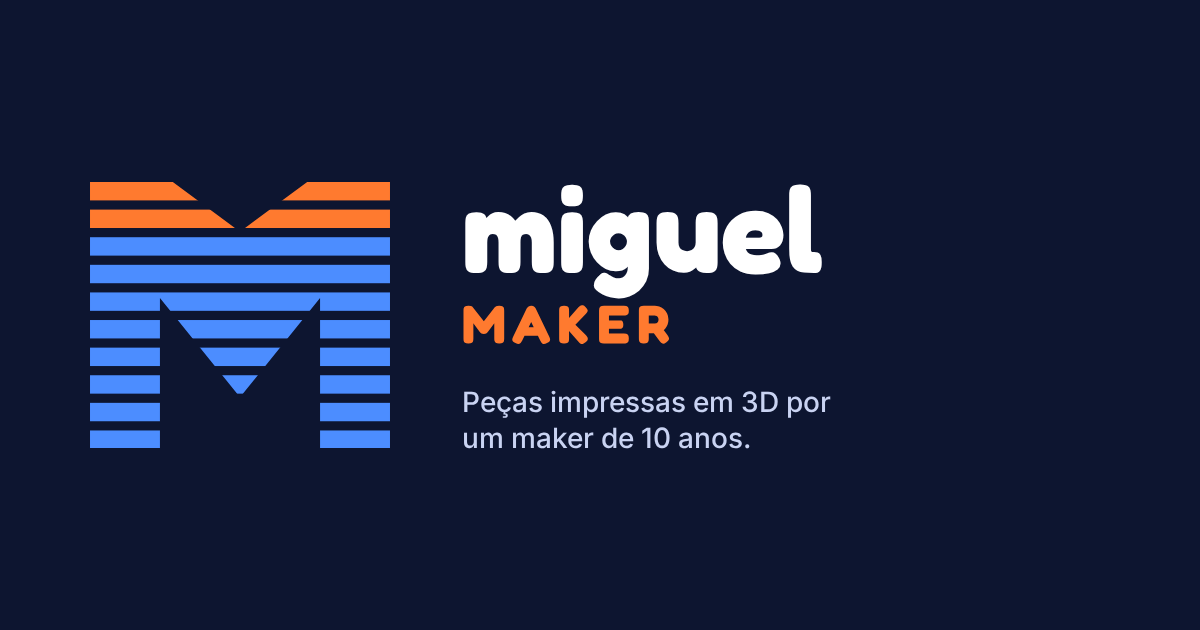
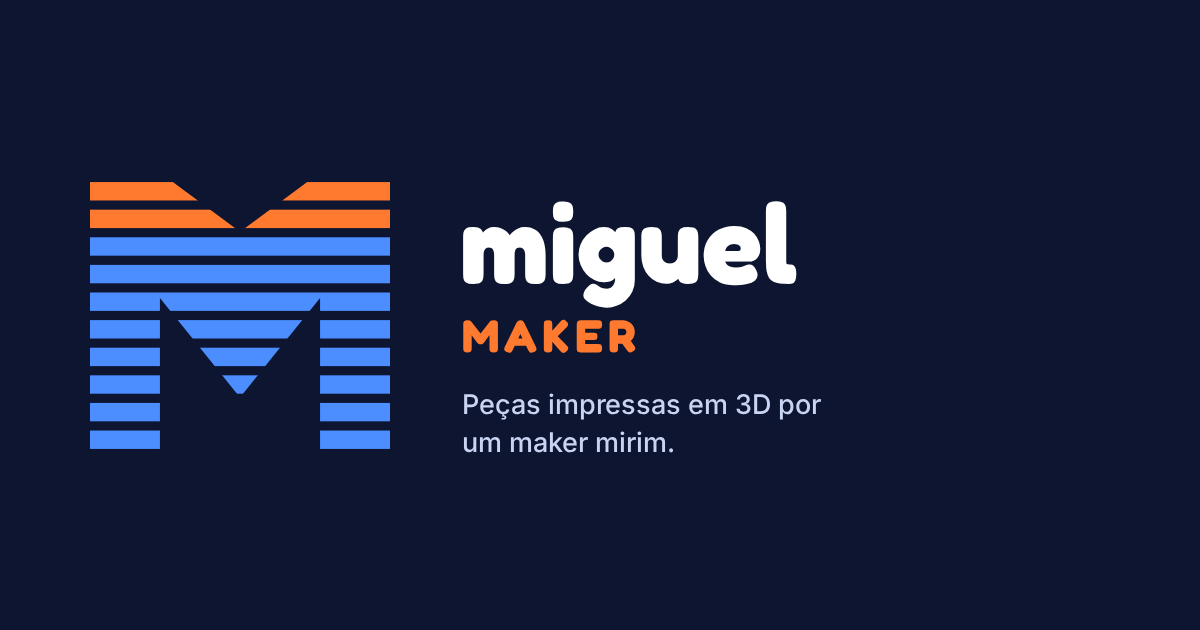
fix(miguelmaker): tira a idade do Miguel do site, do cartão e da prévia (maker mirim)

Changed region(s): [[0.37, 0.2714, 0.7092, 0.573], [0.37, 0.6032, 0.7092, 0.7238]]

diff --git a/miguelmaker/index.html b/miguelmaker/index.html
@@ -3,8 +3,8 @@
 <head>
 <meta charset="utf-8">
 <meta name="viewport" content="width=device-width, initial-scale=1">
-<title>Miguel Maker | Peças impressas em 3D por um maker de 10 anos</title>
-<meta name="description" content="Chaveiros personalizados, quadros de percurso, action figures e peças sob encomenda, impressos em 3D pelo Miguel, um maker de 10 anos. Peça pelo WhatsApp.">
+<title>Miguel Maker | Peças impressas em 3D por um maker mirim</title>
+<meta name="description" content="Chaveiros personalizados, quadros de percurso, action figures e peças sob encomenda, impressos em 3D pelo Miguel, um maker mirim. Peça pelo WhatsApp.">
 <link rel="canonical" href="https://luizhenrique.dev.br/miguelmaker/">
 <meta name="theme-color" content="#0D1530">
 
@@ -13,7 +13,7 @@
 <meta property="og:site_name" content="Miguel Maker">
 <meta property="og:url" content="https://luizhenrique.dev.br/miguelmaker/">
 <meta property="og:title" content="Miguel Maker | Criado camada por camada">
-<meta property="og:description" content="Peças impressas em 3D pelo Miguel, um maker de 10 anos. Diagnóstico não é destino.">
+<meta property="og:description" content="Peças impressas em 3D pelo Miguel, um maker mirim. Diagnóstico não é destino.">
 <meta property="og:image" content="https://luizhenrique.dev.br/miguelmaker/img/og.png">
 <meta property="og:image:width" content="1200">
 <meta property="og:image:height" content="630">
@@ -33,7 +33,7 @@
   "@type": "Store",
   "name": "Miguel Maker",
   "slogan": "Criado camada por camada",
-  "description": "Peças impressas em 3D pelo Miguel, um maker de 10 anos: chaveiros, quadros de percurso, action figures e personalizados.",
+  "description": "Peças impressas em 3D pelo Miguel, um maker mirim: chaveiros, quadros de percurso, action figures e personalizados.",
   "url": "https://luizhenrique.dev.br/miguelmaker/",
   "logo": "https://luizhenrique.dev.br/miguelmaker/img/icone-180.png",
   "image": "https://luizhenrique.dev.br/miguelmaker/img/og.png",
@@ -92,7 +92,7 @@
 <section class="abertura">
   <div class="caixa">
     <div>
-      <h1>Peças impressas em 3D pelo Miguel, um maker de 10 anos.</h1>
+      <h1>Peças impressas em 3D pelo Miguel, um maker mirim.</h1>
       <p class="sub">Chaveiros com nome, quadros do seu percurso, action figures e o que mais você imaginar. Cada peça sai numerada e assinada por ele.</p>
       <div class="acoes">
         <a class="bt laranja" href="https://wa.me/5561992868444?text=Oi!%20Vim%20pelo%20site%20do%20Miguel%20Maker%20e%20quero%20fazer%20um%20pedido." target="_blank" rel="noopener"><svg aria-hidden="true"><use href="#i-whats"/></svg>Pedir pelo WhatsApp</a>
@@ -185,7 +185,7 @@
   <div class="caixa">
     <div class="historia">
       <h2>Quem é o Miguel</h2>
-      <p>O Miguel tem 10 anos, gosta de azul, de videogame e de futebol. Um dia o pai trouxe uma impressora 3D para casa, e ele descobriu que dava para transformar uma ideia numa peça de verdade.</p>
+      <p>O Miguel é uma criança que gosta de azul, de videogame e de futebol. Um dia o pai trouxe uma impressora 3D para casa, e ele descobriu que dava para transformar uma ideia numa peça de verdade.</p>
       <p>Hoje é ele quem escolhe os modelos, prepara a impressão, acompanha a peça subindo na mesa, confere o acabamento e entrega para o cliente. A máquina faz o trabalho fino; o Miguel faz o resto: imagina, decide, capricha e vende.</p>
       <p>O Miguel tem paralisia cerebral, com um comprometimento leve na coordenação motora. Isso faz parte da história dele, mas não diz o que ele pode fazer. Ele faz tudo, como qualquer criança, e cada dia traz uma conquista nova.</p>
       <p>O pai apresentou esse mundo e segue do lado, como incentivador. A fábrica é do Miguel.</p>

diff --git a/miguelmaker/cartao/index.html b/miguelmaker/cartao/index.html
@@ -4,7 +4,7 @@
 <meta charset="utf-8">
 <meta name="viewport" content="width=device-width, initial-scale=1, viewport-fit=cover">
 <title>Miguel Maker | Cartão</title>
-<meta name="description" content="Oi! Eu sou o Miguel e imprimo em 3D. Sua ideia, eu imprimo. Peça pelo WhatsApp.">
+<meta name="description" content="Oi! Eu sou o Miguel, um maker mirim que imprime em 3D. Sua ideia, eu imprimo. Peça pelo WhatsApp.">
 <link rel="canonical" href="https://luizhenrique.dev.br/miguelmaker/cartao/">
 <meta name="theme-color" content="#0D1530">
 <meta property="og:type" content="profile">
@@ -12,7 +12,7 @@
 <meta property="og:site_name" content="Miguel Maker">
 <meta property="og:url" content="https://luizhenrique.dev.br/miguelmaker/cartao/">
 <meta property="og:title" content="Miguel Maker | Sua ideia, eu imprimo!">
-<meta property="og:description" content="Peças impressas em 3D pelo Miguel, um jovem maker. Criado camada por camada.">
+<meta property="og:description" content="Peças impressas em 3D pelo Miguel, um maker mirim. Criado camada por camada.">
 <meta property="og:image" content="https://luizhenrique.dev.br/miguelmaker/img/og-cartao.png">
 <meta property="og:image:width" content="1200">
 <meta property="og:image:height" content="630">
@@ -121,7 +121,7 @@ h1 span{color:var(--azul)}
   </div>
 
   <h1>Oi! Eu sou o <span>Miguel</span>.</h1>
-  <p class="oi">Eu imprimo em 3D. Me conta a sua ideia que eu transformo em peça.</p>
+  <p class="oi">Sou um maker mirim e imprimo em 3D. Me conta a sua ideia que eu transformo em peça.</p>
 
   <nav class="links" aria-label="Contatos">
     <a class="bt laranja" href="https://wa.me/5561992868444?text=Oi%20Miguel!%20Vi%20seu%20cart%C3%A3o%20e%20quero%20fazer%20um%20pedido." target="_blank" rel="noopener"><svg aria-hidden="true"><use href="#i-whats"/></svg>Pedir pelo WhatsApp</a>
